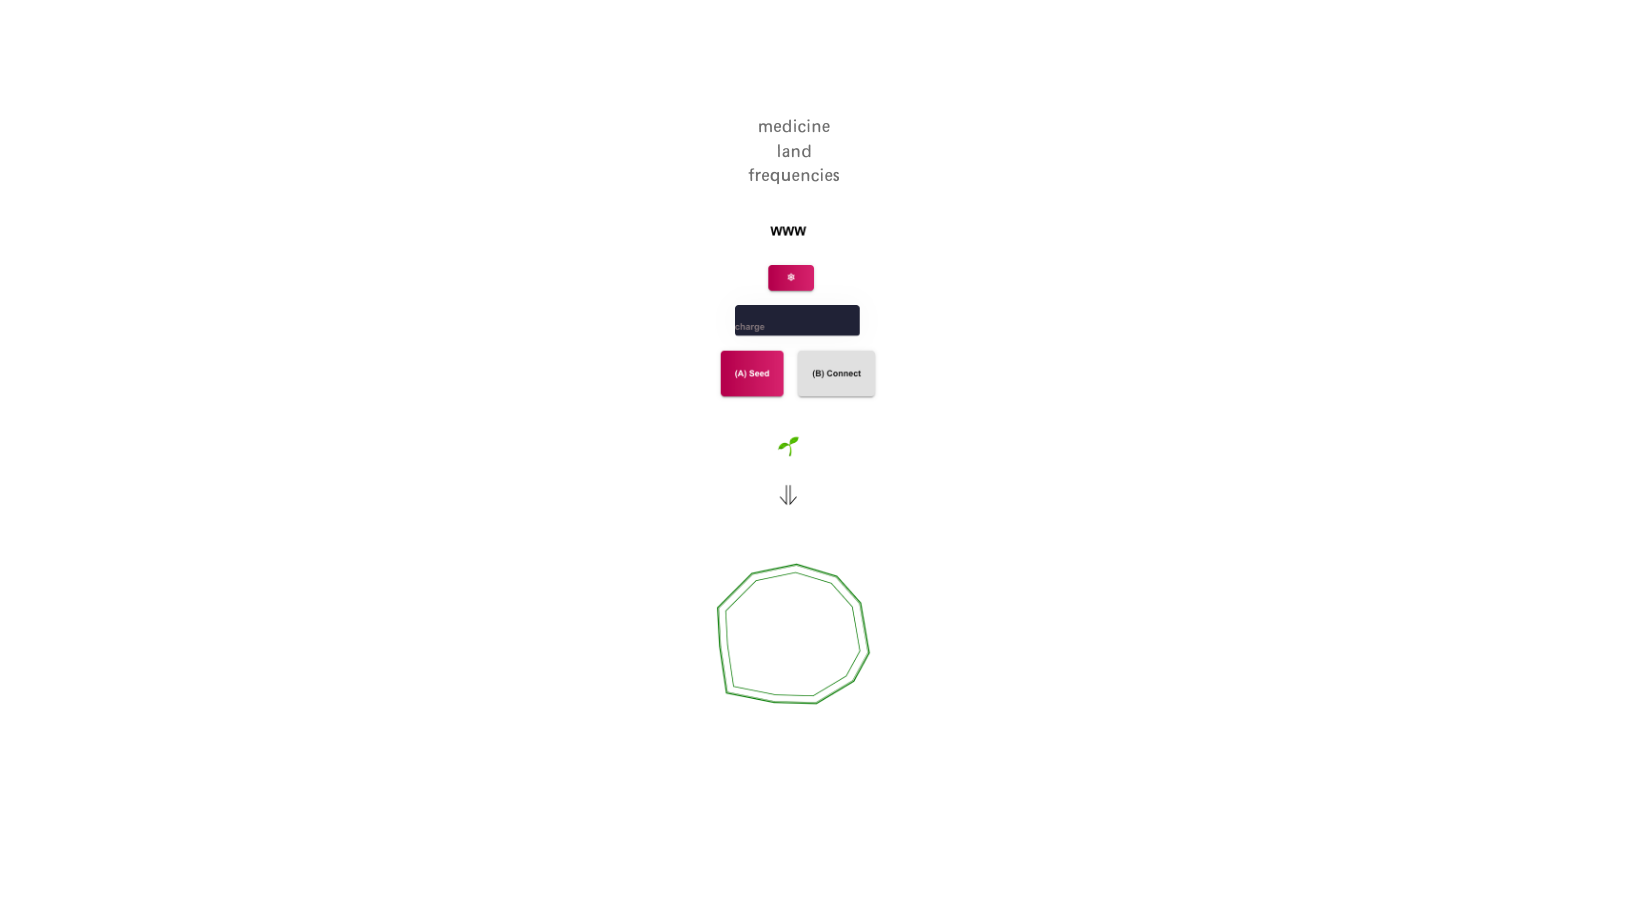
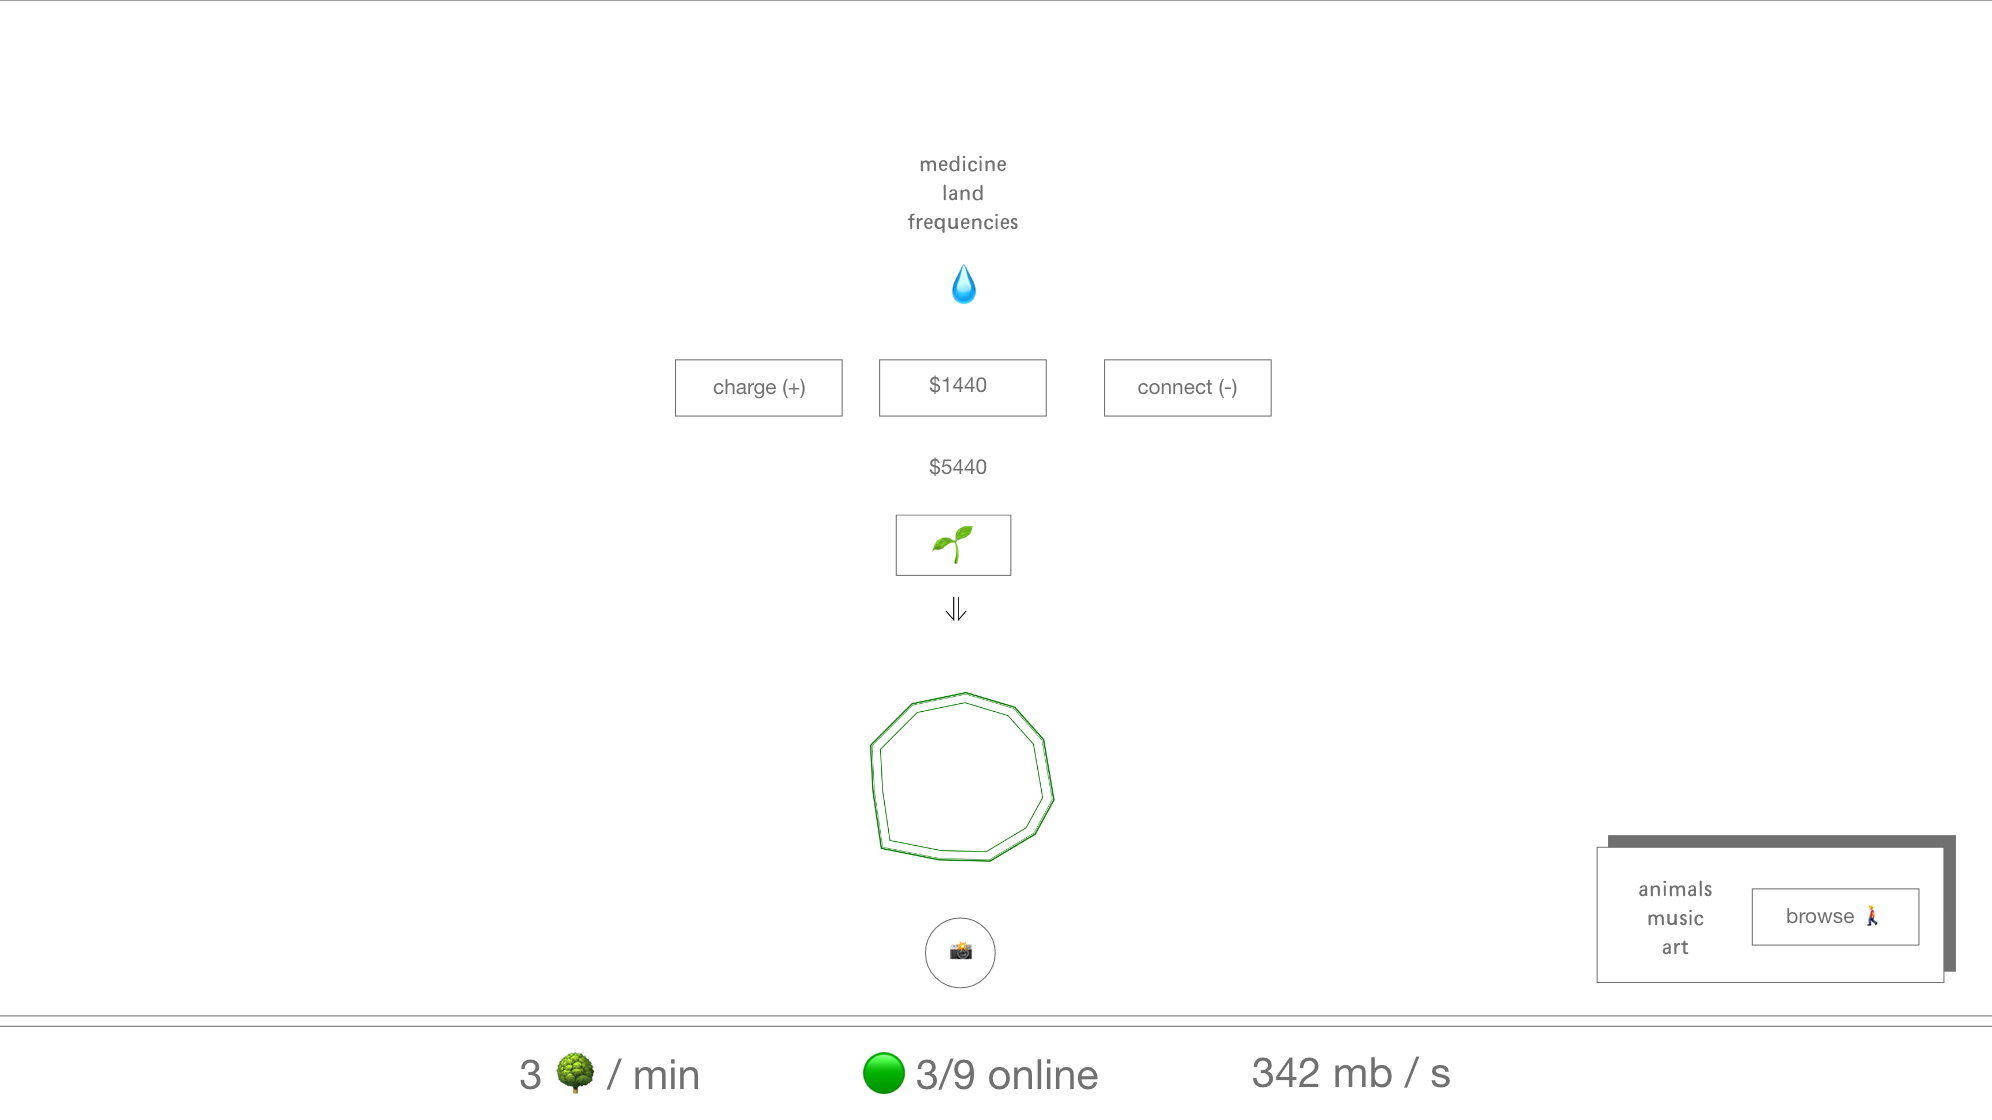
updated designs

diff --git a/README.md b/README.md
@@ -32,6 +32,9 @@ Technologies used: hands, ritual, ethereum, polygon, charged particles, filecoin
 ### charge trunk
 ![charge](charge.png)
 
+### inspect totem likeness & project
+![purchase](purchase.png)
+
 ## reflections on project: 
 
 I’ve always wanted to roll the stake of hackathons forward not just with presence or financial, but also composable pieces that might fit together with pieces along the way. Working on this. Allow the affordances of storytelling to merge via this critical artwork.
